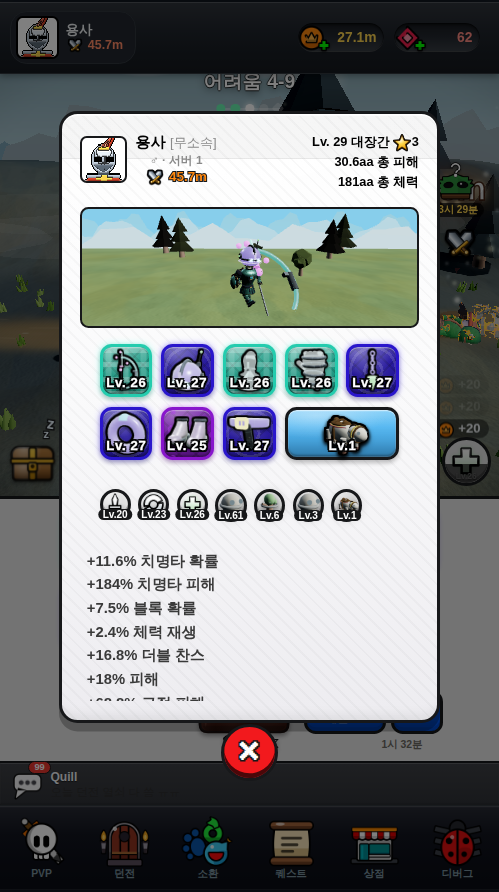
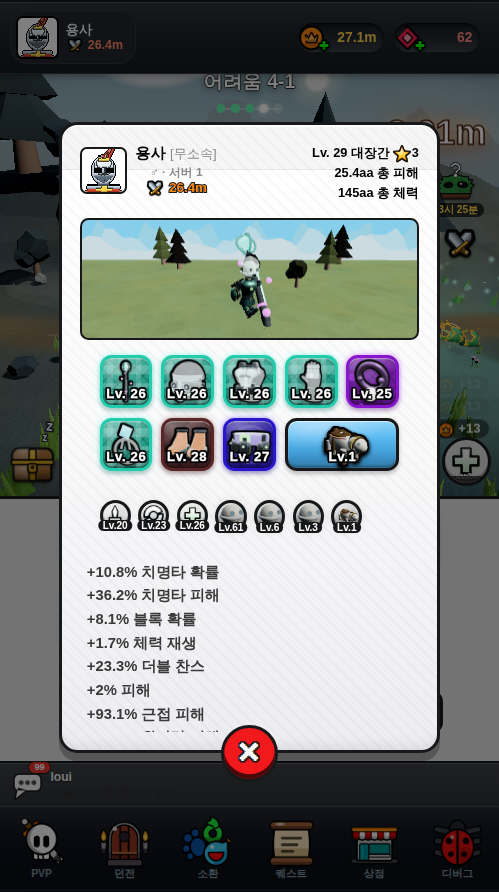
채점 3차 확정분 — 펫 x1 배지 소환버튼 하단 정렬(원본 정합) + 플레이어정보 카드 71.2%H 재정정('흰 잉크 하단=✕가 run 을 끊은 자리' 오독 철회, 반걸침 복원) + 캡처 하네스 Scene3D 레이스 가드
Claude-Session: https://claude.ai/code/session_01EJPyPPvCkDp4nEfpsx176M

diff --git a/web/css/style.css b/web/css/style.css
@@ -2682,10 +2682,11 @@ body {
 /* 플레이어 정보 카드 — 원본(shot-043313) 흰 카드 잉크 373/496 = 75.20%W 인데 공용 .wide 74%는
    테두리를 빼면 72.75%W 라 −2.46%p 로 유일하게 ±2%p 를 넘겼다(전수 검증 채점 1차, 픽셀 교차검증).
    공용 74%를 건드리면 league-challenge 등 CW 캘리브레이션이 통째로 흔들리므로 이 카드만 승격. */
-.modal-card.wide.pinfo-card { width: 76.5%; height: calc(var(--app-h) * .690); }
-/* ↑ 높이 69%H = 원본 카드 흰 잉크 14.09~82.39%H 실측(+테두리 몫). 종전엔 내용물이 높이를 정해
-   카드가 위로 1.5%p 떠 있었고(흰 12.56~79.93), 아래 세 처방과 함께 내부 앵커가 전부 원본에 붙는다.
-   (전수 검증 채점 2차 — 2인 공통 '중단 콘텐츠 상향 쏠림' Δ3~6%p, 픽셀 교차검증) */
+.modal-card.wide.pinfo-card { width: 76.5%; height: calc(var(--app-h) * .712); }
+/* ↑ 높이 71.2%H = 원본 카드 top 14.09%H + 하단(✕ 중심 85.34%H = 반걸침 규칙상 카드 아랫변).
+   ⚠ '카드 흰 잉크 하단 82.39'는 카드 끝이 아니라 **✕가 흰 run 을 끊는 지점**이다(✕ 잉크 상단
+   82.84와 일치) — 이걸 카드 하단으로 읽으면 69%H 로 2.2%p 짧아진다(채점 3차 2인이 잡았다).
+   (채점 2차 '중단 콘텐츠 상향 쏠림' Δ3~6%p 는 아래 세 처방과 함께 해소, 전부 픽셀 교차검증) */
 /* 원본은 [프로필][설정] 줄 아래로 카드 바닥까지 55px(6.2%H)의 흰 여백이 남는다 —
    카드 패딩 1.1rem만으로는 13px뿐이라 버튼줄이 바닥에 붙어 있었다. */
 .profile-sheet .profile-tabs { margin-top: auto; margin-bottom: 2.2rem; }
@@ -3300,9 +3301,10 @@ body {
     margin-top: -1.7rem; position: relative; z-index: 2;
 }
 .x-btn:active { transform: translateY(.12rem); box-shadow: none; }
-/* 플레이어 정보만 ✕가 카드에 안 걸친다 — 원본(043313) ✕ 잉크 82.84~87.84%H = 카드(흰 잉크 하단
-   82.39%H) **바로 아래 분리**. 공용 -1.7rem 걸침을 이 팝업에서만 해제(채점 2차 카드 하단 −3%p 의 진범). */
-#player-info-modal .x-btn { margin-top: .1rem; }
+/* (2026-08-19 정정) 플레이어 정보 ✕도 공용 규칙대로 카드에 반걸침이 맞다 — '흰 잉크 하단 82.39 =
+   카드 하단'이 오독이었다(✕가 흰 run 을 끊은 자리). 원본 ✕ 중심 85.34%H = 카드 아랫변. 해제 규칙 철회,
+   대신 래퍼를 살짝 내려 카드 top 14.09%H 를 맞춘다. */
+#player-info-modal .idet-wrap { margin-top: .68rem; }
 
 /* ---- 탭바: 팝업이 열린 탭은 빨간 원형 X로 (UI-SPEC 공통 레이아웃) ---- */
 #tabbar button.tab-x { color: #fff; justify-content: center; padding: .3rem 0; }
@@ -3781,7 +3783,9 @@ body {
    버튼이 정확히 패딩의 절반(13.5px = 2.65%p)만큼 오른쪽에 앉았다. `justify-content:center` 도
    `margin:auto` 도 **콘텐츠 상자 기준**이라 둘 다 이걸 못 고친다 — 패딩 자체를 지워야 한다. */
 #panel-pets .summon-bar { position: relative; padding-left: 0; }
-#panel-pets .summon-bar > .x5-toggle { position: absolute; right: 67.4%; top: 50%; transform: translateY(-50%); }
+/* 세로는 원본(042356)이 **소환 버튼 하단 정렬**(x1 잉크 59.98~62.47%H = 버튼 아랫변) — 가운데 정렬은
+   3%p 위였다(전수 검증 채점 2·3차 2인 공통). 버튼이 바 높이를 정하므로 bottom 기준으로 붙인다. */
+#panel-pets .summon-bar > .x5-toggle { position: absolute; right: 67.4%; top: auto; bottom: .22rem; transform: none; }
 /* ⓘ·Lv·게이지 열의 x — 사용자 지시 2026-08-19(slug: pet-popup-gauge-gap):
    "펫 팝업 게이지 부분이 버튼이랑 딱 붙어 있는 게 별로. 스킬 부분은 띄어져 있더만, 그렇게."
    실측(499px 폭): 소환 버튼 우단→이 열 좌단 간격이 **펫 11.8px vs 스킬 22.4px** 로 펫이 정확히 절반이라

diff --git a/web/tools/shot-screens.js b/web/tools/shot-screens.js
@@ -171,10 +171,13 @@ const SEED = () => {
     page.on('pageerror', e => errors.push('PAGEERROR ' + String(e)));
     page.on('console', m => { if (m.type() === 'error') errors.push('CONSOLE ' + m.text()); });
     await page.goto(INDEX, { waitUntil: 'load' });
-    await waitReady(page, 'typeof UI !== "undefined" && typeof S !== "undefined" && typeof Forge !== "undefined"', { label: '스크립트 로드' });
+    // 🚨 시드는 Mounts.equip → Scene3D.refreshMount 를 타므로 **씬 초기화까지** 기다려야 한다 —
+    //    느린 컨테이너에서 스크립트 로드 직후 시드가 refreshMount 안에서 TypeError 로 죽는다
+    //    (probe-main-px 의 UI.els 레이스와 같은 계열, 이 세션에서 4회 재현).
+    await waitReady(page, 'typeof UI !== "undefined" && typeof S !== "undefined" && typeof Forge !== "undefined" && UI.els && !!UI.els.equipSheet && typeof Scene3D !== "undefined" && !!Scene3D.scene', { label: '스크립트 로드' });
     await page.evaluate(SEED);
     await page.reload({ waitUntil: 'load' });
-    await waitReady(page, 'typeof UI !== "undefined" && S && S.forgeLevel === 29', { label: '시드 상태 로드' });
+    await waitReady(page, 'typeof UI !== "undefined" && S && S.forgeLevel === 29 && UI.els && !!UI.els.equipSheet && typeof Scene3D !== "undefined" && !!Scene3D.scene', { label: '시드 상태 로드' });
     // 캡처 중에는 토스트를 아예 막는다 — innerHTML 비우기만으로는 부족하다: 전투 틱이 clear 와
     // screenshot 사이에 새 토스트를 띄워 원본에 없는 알림 pill 이 화면에 찍힌다(리그 캡처에서
     // 시즌 종료 pill 위에 '첫 클리어' 토스트가 겹쳐 찍힌 사례). 채점용 캡처가 오염되면 안 된다.
